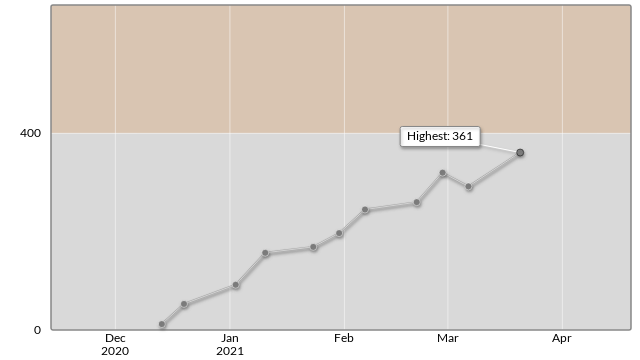
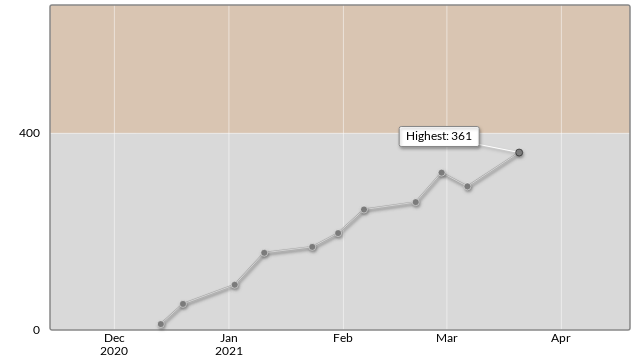
update AtCoder images

diff --git a/README.md b/README.md
@@ -21,4 +21,4 @@ atu4403の個人情報満載リポジトリ
 
 ![ATCODER_GRAPH](images/at_graph.png)
 
-(last update: 2021-03-21 02:57:31)
+(last update: 2021-03-21 04:13:18)
